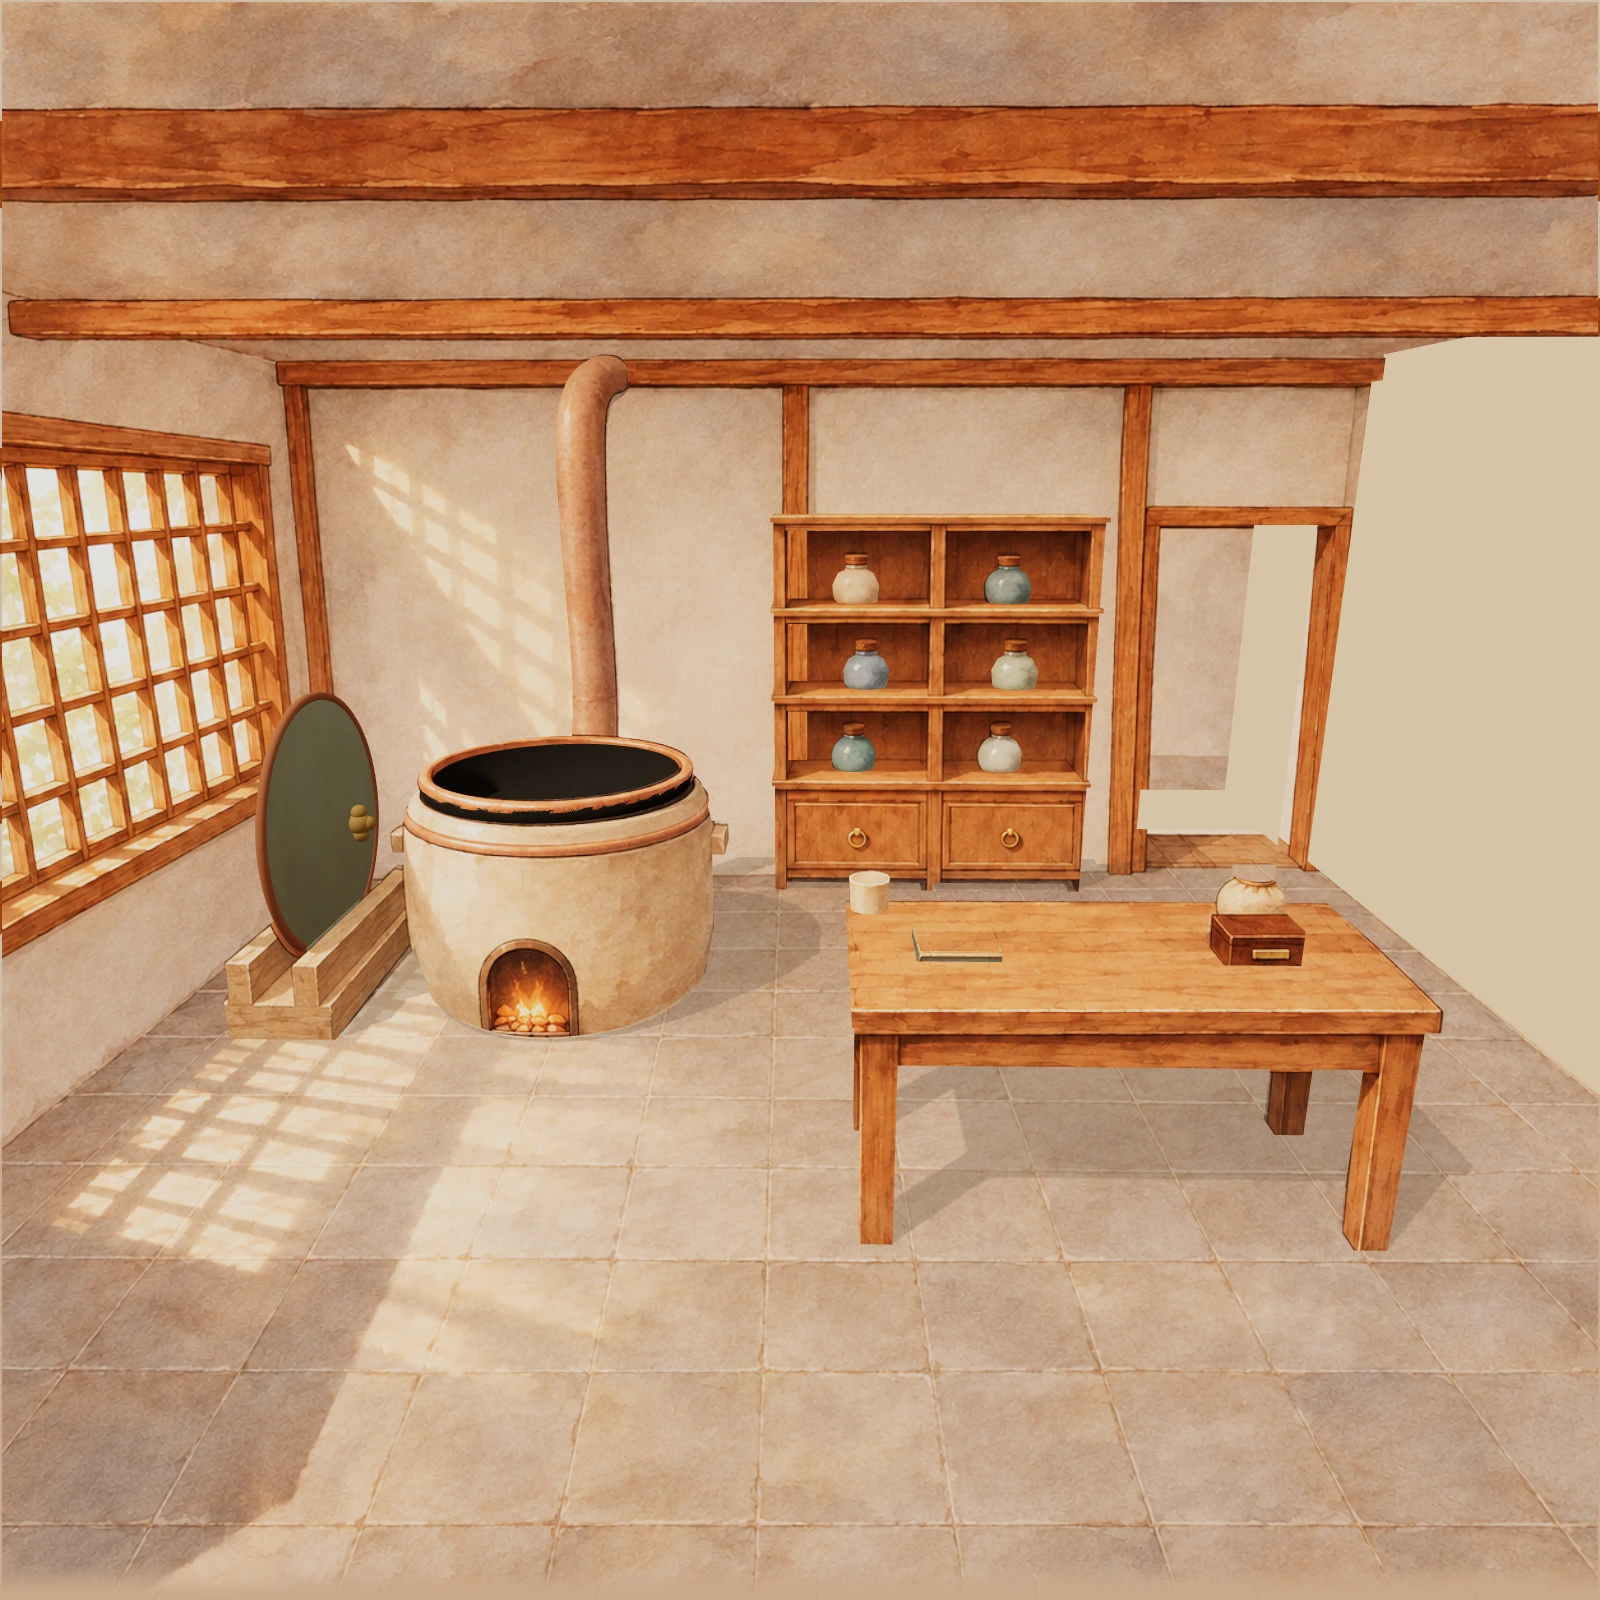
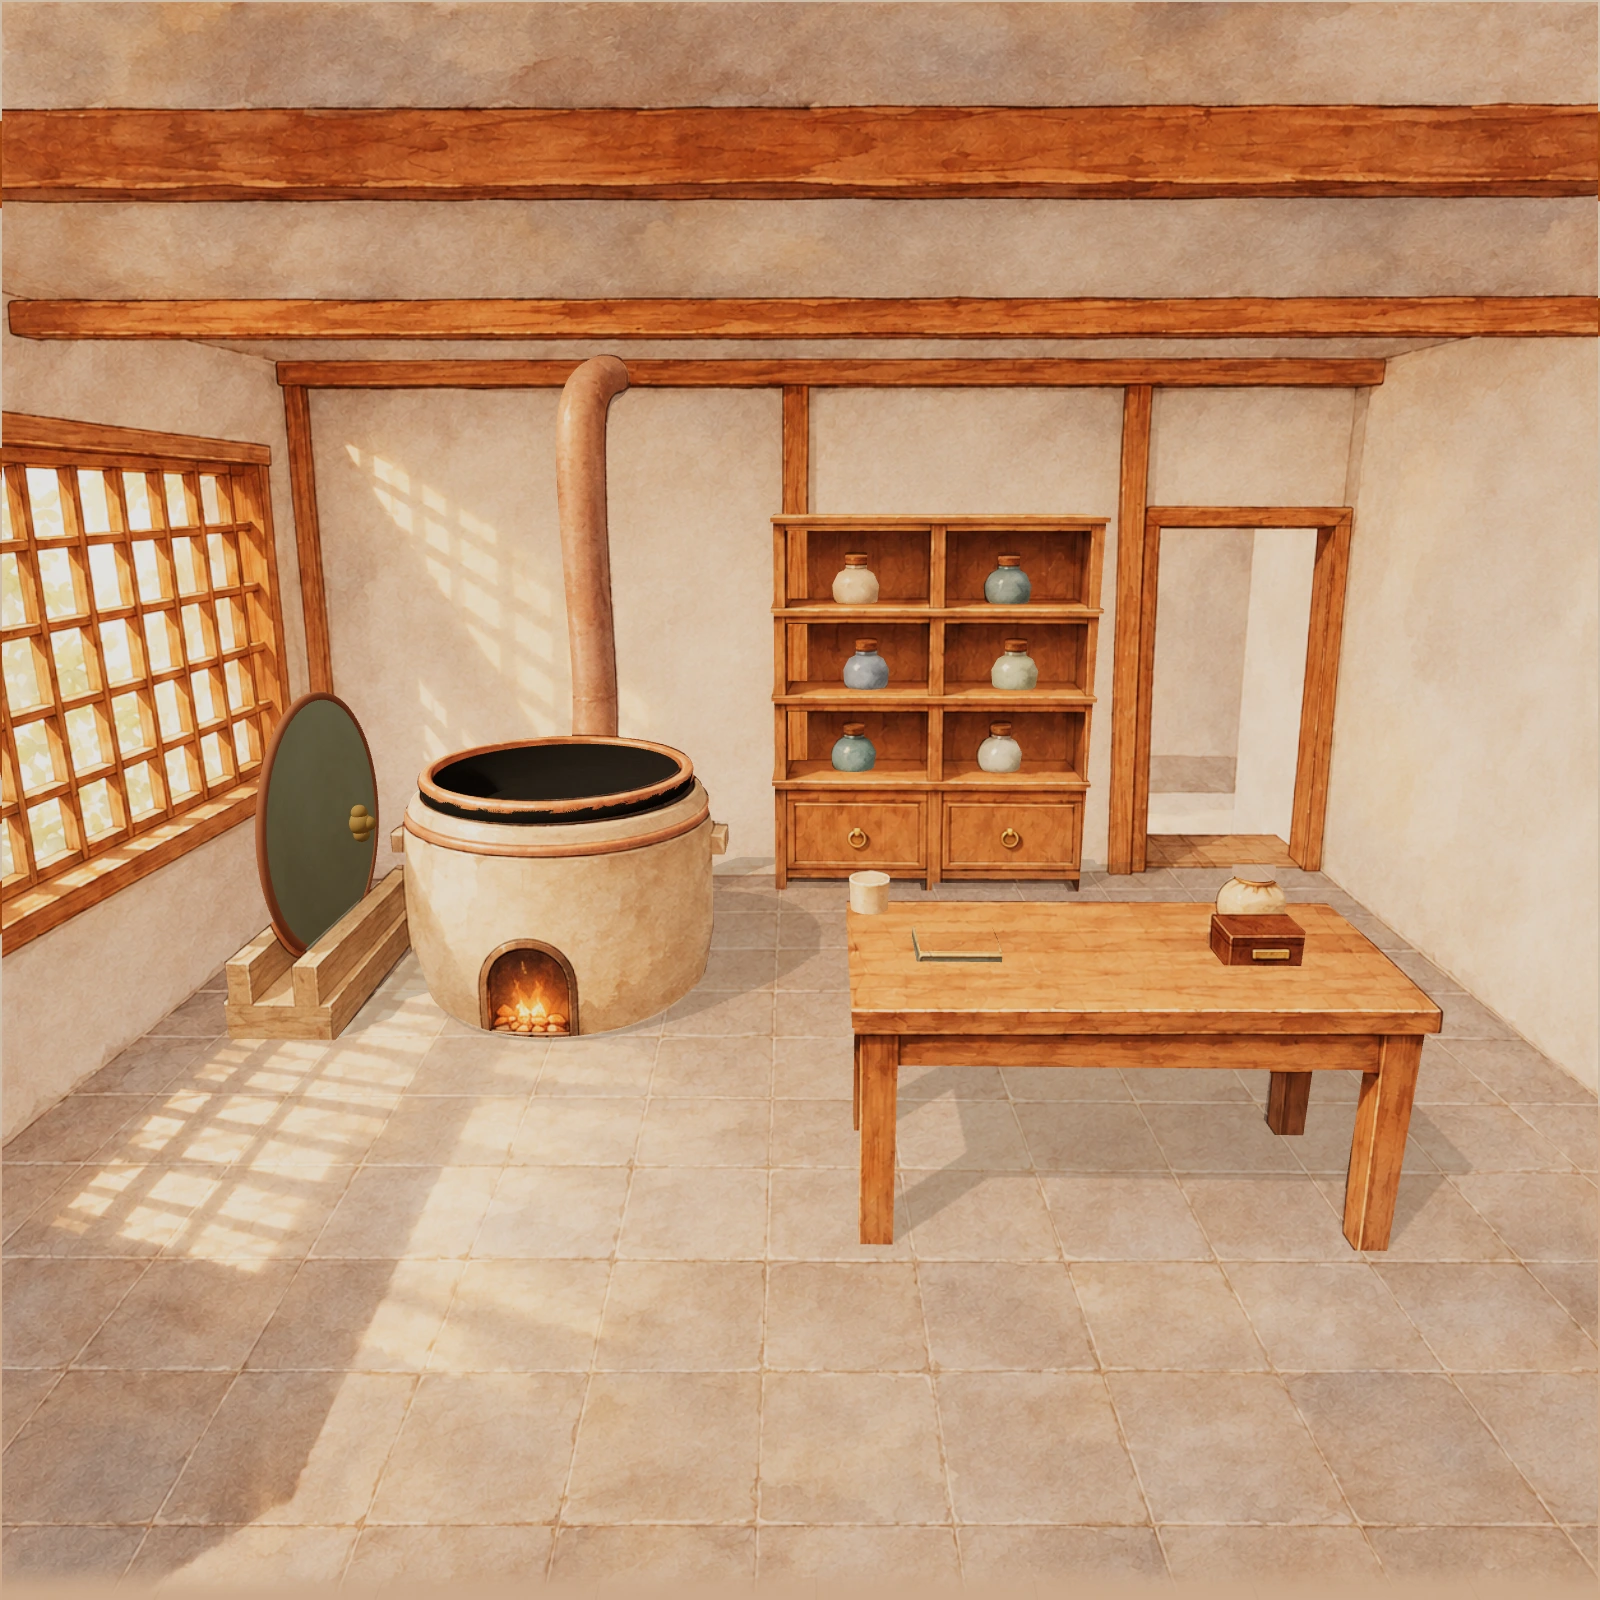
Align tool artwork with shared workbench and complete room boundaries

diff --git a/scene-projection-v124.js b/scene-projection-v124.js
@@ -1,1 +1,1 @@
-window.AlchemySceneProjection={"room-desktop":{"width":1600,"height":1600,"mouth":{"x":0.27032585347643523,"y":0.46079160595319224,"w":0.15383055572574011,"h":0.03772541401036278},"fire":{"x":0.30263689659694926,"y":0.5916677211172316,"w":0.058484865039834966,"h":0.05442036450346077},"pill":{"x":0.3500573676282107,"y":0.4973078333628757},"pillDiameter":0.029869096388072003,"tools":[{"foot":{"x":0.6536067842313122,"y":0.5729865749903325},"top":{"x":0.6562808729034604,"y":0.5322976915878429}},{"foot":{"x":0.715804263937692,"y":0.5734429605563776},"top":{"x":0.7195674166452779,"y":0.5326939211336498}},{"foot":{"x":0.7782067527330141,"y":0.5739008504147115},"top":{"x":0.7830662027434887,"y":0.5330914795036823}}],"bodyRight":0.445527421067388,"book":{"x":0.5975510486978759,"y":0.5859309648725779},"casket":{"x":0.7849622151355331,"y":0.579169931003628},"door":{"x":0.714492202832499,"y":0.3640613297094501,"w":0.102737422748025,"h":0.12624580560718124}},"furnace-desktop":{"width":1600,"height":1600,"mouth":{"x":0.10146566166594628,"y":0.346380770620373,"w":0.34907574487177523,"h":0.1319057736585968},"fire":{"x":0.22420620522222617,"y":0.6762866785626975,"w":0.14241469817840863,"h":0.10418332764173699},"pill":{"x":0.2919488341942954,"y":0.43961648521983177},"pillDiameter":0.06623134628948174,"tools":[{"foot":{"x":1.13298572134699,"y":0.6491173489527917},"top":{"x":1.185218422625181,"y":0.5631299342002306}},{"foot":{"x":1.2621768304297993,"y":0.6340881436342876},"top":{"x":1.323255683469394,"y":0.5493770179251944}},{"foot":{"x":1.3846463209539488,"y":0.6198408852013545},"top":{"x":1.453551675874141,"y":0.5363953790288851}}],"bodyRight":0.49424553556389306,"book":{"x":1.1169067111133204,"y":0.7553475631407953},"casket":{"x":1.5723786399435005,"y":0.6881962068859377},"door":{"x":0.8322675105649453,"y":0.1340050383094158,"w":0.1883584620521015,"h":0.21409099680953814}},"room-mobile":{"width":390,"height":900,"mouth":{"x":0.10215986584344827,"y":0.43476067902529303,"w":0.27362944940410283,"h":0.022806806564431126},"fire":{"x":0.1710908261955486,"y":0.52928352840612,"w":0.10370161770109859,"h":0.04288706466485703},"pill":{"x":0.24319141592721438,"y":0.4605464831470708},"pillDiameter":0.05394873966933711,"tools":[{"foot":{"x":0.795360593460845,"y":0.5043352134340628},"top":{"x":0.799933071959401,"y":0.4733771095851371}},{"foot":{"x":0.9004178389465812,"y":0.5039883981900979},"top":{"x":0.9066045398428003,"y":0.4730857108216738}},{"foot":{"x":1.0050696609165433,"y":0.5036429213312665},"top":{"x":1.0128580069812552,"y":0.4727954539277527}}],"bodyRight":0.4134983186491636,"book":{"x":0.7049046709700368,"y":0.5109604651561676},"casket":{"x":1.0186593234721641,"y":0.5033019555840588},"door":{"x":0.8785580190863291,"y":0.3615519640076915,"w":0.1792363900733569,"h":0.09955757279692279}},"furnace-mobile":{"width":390,"height":900,"mouth":{"x":0.09698712432625783,"y":0.40184003715007466,"w":0.5278252078564636,"h":0.08875010240966957},"fire":{"x":0.21326685731738726,"y":0.6247125545468009,"w":0.19394384794527275,"h":0.0754273104004839},"pill":{"x":0.3659092323360393,"y":0.46833468717407584},"pillDiameter":0.1020065410324763,"tools":[{"foot":{"x":1.6071549332041493,"y":0.6801551490219282},"top":{"x":1.6587464957952094,"y":0.6190126542400813}},{"foot":{"x":1.873056172595774,"y":0.6883901260032191},"top":{"x":1.9380067957081566,"y":0.626711651025114}},{"foot":{"x":2.1467565317495723,"y":0.6968666421810281},"top":{"x":2.225851466031492,"y":0.6346473124567565}}],"bodyRight":0.6812945342210865,"book":{"x":1.4243841847864682,"y":0.7239991325159844},"casket":{"x":2.2877428524693384,"y":0.7439220712720701},"door":{"x":1.5385378368816973,"y":0.2523144420192849,"w":0.4728154754529441,"h":0.184464932081155}}};
+window.AlchemySceneProjection={"room-desktop":{"width":1600,"height":1600,"mouth":{"x":0.27032585347643523,"y":0.46079160595319224,"w":0.15383055572574011,"h":0.03772541401036278},"fire":{"x":0.30263689659694926,"y":0.5916677211172316,"w":0.058484865039834966,"h":0.05442036450346077},"pill":{"x":0.3500573676282107,"y":0.4973078333628757},"pillDiameter":0.029869096388072003,"tools":[{"foot":{"x":0.5884996630699908,"y":0.567417870706487},"top":{"x":0.5900088660554954,"y":0.5274648237997352}},{"foot":{"x":0.6645826043566049,"y":0.5679658793775695},"top":{"x":0.6673950206989938,"y":0.5279402699800843}},{"foot":{"x":0.7409729514665993,"y":0.5685161022251009},"top":{"x":0.7450992006355479,"y":0.5284176700488455}}],"bodyRight":0.445527421067388,"book":{"x":0.5975510486978759,"y":0.5859309648725779},"casket":{"x":0.7849622151355331,"y":0.579169931003628},"door":{"x":0.714492202832499,"y":0.3640613297094501,"w":0.102737422748025,"h":0.12624580560718124}},"furnace-desktop":{"width":1600,"height":1600,"mouth":{"x":0.10146566166594628,"y":0.346380770620373,"w":0.34907574487177523,"h":0.1319057736585968},"fire":{"x":0.22420620522222617,"y":0.6762866785626975,"w":0.14241469817840863,"h":0.10418332764173699},"pill":{"x":0.2919488341942954,"y":0.43961648521983177},"pillDiameter":0.06623134628948174,"tools":[{"foot":{"x":0.9677812701969097,"y":0.6420382123232176},"top":{"x":1.0058564898641,"y":0.5566444175573249}},{"foot":{"x":1.1316592779824177,"y":0.6238353249402959},"top":{"x":1.1812567535390852,"y":0.5400295306436359}},{"foot":{"x":1.285140191618392,"y":0.6067873035242665},"top":{"x":1.344684951546114,"y":0.5245487042668511}}],"bodyRight":0.49424553556389306,"book":{"x":1.1169067111133204,"y":0.7553475631407953},"casket":{"x":1.5723786399435005,"y":0.6881962068859377},"door":{"x":0.8322675105649453,"y":0.1340050383094158,"w":0.1883584620521015,"h":0.21409099680953814}},"room-mobile":{"width":390,"height":900,"mouth":{"x":0.10215986584344827,"y":0.43476067902529303,"w":0.27362944940410283,"h":0.022806806564431126},"fire":{"x":0.1710908261955486,"y":0.52928352840612,"w":0.10370161770109859,"h":0.04288706466485703},"pill":{"x":0.24319141592721438,"y":0.4605464831470708},"pillDiameter":0.05394873966933711,"tools":[{"foot":{"x":0.6833145784166372,"y":0.5017695057080798},"top":{"x":0.6861112649759865,"y":0.4712217806520589}},{"foot":{"x":0.8129666712614332,"y":0.5013484874022056},"top":{"x":0.8177298166611149,"y":0.4708681943483794}},{"foot":{"x":0.9420028396746624,"y":0.5009294691832953},"top":{"x":0.9487136088757602,"y":0.4705163132925697}}],"bodyRight":0.4134983186491636,"book":{"x":0.7049046709700368,"y":0.5109604651561676},"casket":{"x":1.0186593234721641,"y":0.5033019555840588},"door":{"x":0.8785580190863291,"y":0.3615519640076915,"w":0.1792363900733569,"h":0.09955757279692279}},"furnace-mobile":{"width":390,"height":900,"mouth":{"x":0.09698712432625783,"y":0.40184003715007466,"w":0.5278252078564636,"h":0.08875010240966957},"fire":{"x":0.21326685731738726,"y":0.6247125545468009,"w":0.19394384794527275,"h":0.0754273104004839},"pill":{"x":0.3659092323360393,"y":0.46833468717407584},"pillDiameter":0.1020065410324763,"tools":[{"foot":{"x":1.325281747597228,"y":0.6570079067709333},"top":{"x":1.3621064165529795,"y":0.5974274078992187}},{"foot":{"x":1.6401760389216313,"y":0.6665095814185019},"top":{"x":1.6919760608817258,"y":0.606278023868796}},{"foot":{"x":1.9662115533297482,"y":0.6763474332526184},"top":{"x":2.0340568180082457,"y":0.6154562718948307}}],"bodyRight":0.6812945342210865,"book":{"x":1.4243841847864682,"y":0.7239991325159844},"casket":{"x":2.2877428524693384,"y":0.7439220712720701},"door":{"x":1.5385378368816973,"y":0.2523144420192849,"w":0.4728154754529441,"h":0.184464932081155}},"toolSprites":[{"l":0.17666666666666667,"t":0.20666666666666667,"r":0.9366666666666666,"b":0.9866666666666667},{"l":0.06666666666666667,"t":0.11,"r":0.96,"b":0.9966666666666667},{"l":0.09,"t":0.07666666666666666,"r":0.9766666666666667,"b":1},{"l":0.056666666666666664,"t":0.35,"r":0.9733333333333334,"b":0.8533333333333334},{"l":0.14666666666666667,"t":0.12333333333333334,"r":0.75,"b":1},{"l":0.07,"t":0.35333333333333333,"r":0.9133333333333333,"b":0.9},{"l":0.13666666666666666,"t":0.18333333333333332,"r":0.9566666666666667,"b":0.8933333333333333},{"l":0.09,"t":0.08666666666666667,"r":0.8966666666666666,"b":0.9566666666666667},{"l":0.16,"t":0,"r":0.9433333333333334,"b":0.94},{"l":0.16333333333333333,"t":0.21666666666666667,"r":0.8433333333333334,"b":0.8766666666666667},{"l":0.09,"t":0,"r":0.8833333333333333,"b":0.9366666666666666},{"l":0.06333333333333334,"t":0.043333333333333335,"r":0.8433333333333334,"b":1},{"l":0.12666666666666668,"t":0.07333333333333333,"r":0.9233333333333333,"b":0.86},{"l":0.12666666666666668,"t":0.07666666666666666,"r":0.87,"b":0.85},{"l":0.13333333333333333,"t":0.12666666666666668,"r":0.8633333333333333,"b":0.84},{"l":0.13666666666666666,"t":0.07666666666666666,"r":0.8666666666666667,"b":0.8366666666666667},{"l":0.12,"t":0.12666666666666668,"r":0.8566666666666667,"b":0.8433333333333334}]};

diff --git a/scene-spatial-v124.js b/scene-spatial-v124.js
@@ -47,7 +47,7 @@
   const point=p=>({x:p.x*width,y:top+p.y*imageHeight}),project=r=>({x:r.x*width,y:top+r.y*imageHeight,w:r.w*width,h:r.h*imageHeight});
   const minimum=(r,min=44/scale)=>{const nw=Math.max(r.w,min),nh=Math.max(r.h,min);return{x:r.x-(nw-r.w)/2,y:r.y-(nh-r.h)/2,w:nw,h:nh};};
   Object.assign(L.mouth,minimum(project(data.mouth)));Object.assign(L.firebox,minimum(project(data.fire)));
-  const center=point(data.pill),diameter=mobile?44:88/scale,size=Math.max(48/scale,diameter);Object.assign(L.objects.pill,{x:center.x-size/2,y:center.y-size/2,w:size,h:size,visualDiameter:diameter});L.cutaway.source=null;
+  const center=point(data.pill),diameter=data.pillDiameter*width,size=Math.max(48/scale,diameter);Object.assign(L.objects.pill,{x:center.x-size/2,y:center.y-size/2,w:size,h:size,visualDiameter:diameter});L.cutaway.source=null;
   rect(document.querySelector('.furnace-pill'),L.objects.pill);rect(document.querySelector('.furnace-fire'),L.firebox);rect(document.getElementById('fireResponse'),L.firebox);rect(document.querySelector('.furnace-resume'),L.mouth);
   const x=Math.min(w-76,Math.max(mobile?w*.70:w*.52,data.bodyRight*w+(mobile?7:24))),jw=Math.min(mobile?110:190,w-x-8),jy=(top+(data.mouth.y+data.mouth.h)*imageHeight)*scale+16;
   rect(judgment,{x,y:jy,w:jw,h:220});judgment.style.removeProperty('height');
@@ -55,7 +55,9 @@
   judgment.style.setProperty('top',Math.max(8,adjustedY)+'px','important');Object.assign(L.judgment,{x,y:Math.max(8,adjustedY),w:jw,h:jh});
   rect(collect,{x,y:Math.max(8,adjustedY)+jh+10,w:Math.min(90,jw),h:44});Object.assign(L.objects.tray,{x:x/scale,y:(Math.max(8,adjustedY)+jh+10)/scale,w:Math.min(90,jw)/scale,h:44/scale});
   const row=document.querySelector('.world-tool-row');rect(row,{x:0,y:0,w:width,h:height});L.toolRest.slots=[];
-  [...row.children].forEach((el,i)=>{const slot=data.tools[i],foot=point(slot.foot),tip=point(slot.top),visual=Math.abs(foot.y-tip.y),r={x:foot.x-visual/2,y:foot.y-visual,w:visual,h:visual},interactive=!mobile&&visual*scale>=44;L.toolRest.slots.push(r);rect(el,r);el.style.setProperty('position','absolute','important');el.style.setProperty('--tool-size',visual+'px');el.style.pointerEvents=interactive?'auto':'none';el.tabIndex=interactive?0:-1;el.setAttribute('aria-hidden',String(!interactive));});
+  [...row.children].forEach((el,i)=>{const slot=data.tools[i],foot=point(slot.foot),tip=point(slot.top),visual=Math.abs(foot.y-tip.y),r={x:foot.x-visual/2,y:foot.y-visual,w:visual,h:visual},interactive=!mobile&&visual*scale>=44;L.toolRest.slots.push(r);rect(el,r);el.style.setProperty('position','absolute','important');el.style.setProperty('--tool-size',visual+'px');el.style.pointerEvents=interactive?'auto':'none';el.tabIndex=interactive?0:-1;el.setAttribute('aria-hidden',String(!interactive));
+   const art=el.querySelector('[data-tool-art]'),index=window.AlchemyEconomy.TOOL_DEFS.findIndex(t=>t.id===art?.dataset.toolArt),bounds=P.toolSprites[index];if(art&&bounds){const frame=visual/(bounds.b-bounds.t);el.style.setProperty('--tool-art-size',frame+'px');el.style.setProperty('--tool-art-left',(visual/2-frame*(bounds.l+bounds.r)/2)+'px');el.style.setProperty('--tool-art-top',(visual-frame*bounds.b)+'px');}
+  });
   Object.assign(L.toolRest,{x:0,y:0,w:width,h:height});Object.assign(L.objects.tool,{x:-300,y:-300,w:100,h:100});
   const book=point(data.book),casket=point(data.casket),door=minimum(project(data.door));rect(document.querySelector('.world-book-stack'),{x:book.x-48/scale,y:book.y-30/scale,w:96/scale,h:48/scale});rect(document.querySelector('.world-books'),{x:book.x-48/scale,y:book.y-30/scale,w:96/scale,h:48/scale});rect(document.querySelector('.world-casket'),{x:casket.x-28/scale,y:casket.y-24/scale,w:56/scale,h:48/scale});rect(document.querySelector('.passage-counter'),door);
   for(const sel of ['.world-book-stack','.world-books','.world-casket','.passage-counter']){const el=document.querySelector(sel);const r=el.getBoundingClientRect();el.style.visibility=near||r.right>w||r.left<0||r.bottom>sceneH||r.width<40?'hidden':'visible';}

diff --git a/scene-spatial-v124.css b/scene-spatial-v124.css
@@ -104,12 +104,14 @@ body.scene-spatial .world-book-stack,body.scene-spatial .world-casket{background
 body.scene-spatial .world-casket img,body.scene-spatial .world-casket span,body.scene-spatial .world-casket small{display:none!important}
 body.scene-spatial .world-books{display:none!important}
 body.scene-spatial .world-book-stack:after{content:'书册';font-size:12px;color:#f4e6c8;background:#443225b0;position:absolute;left:0;right:0;bottom:0}
-body.scene-spatial .world-passage{background:#3d2d20d9!important;color:#f2e4c7!important;border:0!important;font-size:14px}
+body.scene-spatial .passage-counter{background:transparent!important;border:0!important;font-size:0!important;box-shadow:none!important}
+body.scene-spatial .passage-counter:after{content:'前堂 ›';position:absolute;left:0;right:0;bottom:0;font-size:14px;line-height:28px;color:#352619;background:#eedfc6cc}
 body.scene-spatial .world-tool-row{pointer-events:none!important;display:block!important}
 body.scene-spatial[data-work-mode=furnace] .world-tool-row{display:block!important}
 body.scene-spatial .world-placed-tool{pointer-events:auto;min-width:0!important;min-height:0!important;background:none!important;border:0!important;box-shadow:none!important;padding:0!important}
 body.scene-spatial .world-placed-tool small,body.scene-spatial .world-empty-rest{display:none!important}
-body.scene-spatial .world-placed-tool .tool-art{width:100%!important;height:100%!important;transform:none!important;filter:drop-shadow(0 1px 1px #3d2b1b66)}
+body.scene-spatial .world-placed-tool:before{left:22.5%!important;right:auto!important;bottom:-2px!important;top:auto!important;width:55%!important;height:4px!important;border:0!important;border-radius:50%!important;transform:none!important;box-shadow:none!important;background:#35271944!important}
+body.scene-spatial .world-placed-tool .tool-art{position:absolute!important;left:var(--tool-art-left,0px)!important;top:var(--tool-art-top,0px)!important;right:auto!important;bottom:auto!important;width:var(--tool-art-size,100%)!important;height:var(--tool-art-size,100%)!important;transform:none!important;filter:drop-shadow(0 1px 1px #3d2b1b66)}
 body.scene-spatial .furnace-resume{background:transparent!important;border:0!important;font-size:0;box-shadow:none!important}
 body.scene-spatial .furnace-resume:after{content:'炉前 ›';position:absolute;left:0;right:0;top:100%;font-size:13px;line-height:22px;color:#3c2a1b;background:transparent}
 body.scene-spatial .pill-detail-panel.engine-panel,body.scene-spatial .equipment-drawer.engine-panel{inset:auto 16px 16px auto!important;width:340px!important;max-height:min(440px,55dvh)!important;background:#e8dbc1!important;border:0!important;box-shadow:0 4px 12px #32201433}

diff --git a/docs/SceneInterfaceV124.md b/docs/SceneInterfaceV124.md
@@ -6,6 +6,7 @@
 
 - 丹房与炉前采用同一房间、家具尺度和位置，背景、炉沿遮挡与点击目标由同一投影生成。近景取景略抬高，丹体位于釜内；不再分别摆放两套家具。
 - 恢复灰米陶炉、灰青炉盖与旧木色的淡彩表现；开盖、合盖与实际炉态同步，切镜头不重开炉或改变奖励。
+- 法器按可见图像底边落在药案上，位置避开药囊、丹匣与书册；补齐右墙和门内结构。丹药的显示尺度随镜头变化，点击范围保持可操作大小。
 - 丹值、转数与五项准确概率紧贴炉体，保留短文字，撤去重复需求纸笺；窄屏也保留完整名称与数字。
 - 丹料和已存丹药直接出现在工作区库存。库存按内容占位，最多220px并可内部滚动；一击选中对应丹药详情，关闭后恢复到该库存项，不新增丹药归属分类。
 - 看丹、法器详情按需打开；撤下“炉前只读”整行。不可取料时在库存显示原操作提供的原因。收丹已有回执时撤去重复的顶部收丹提示。
